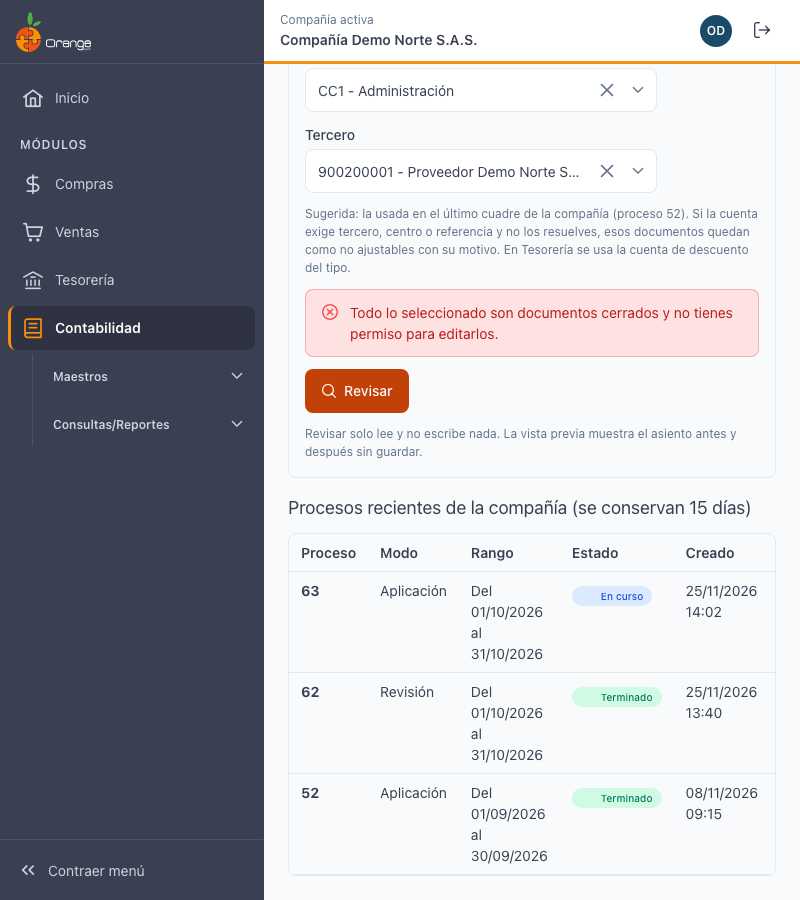
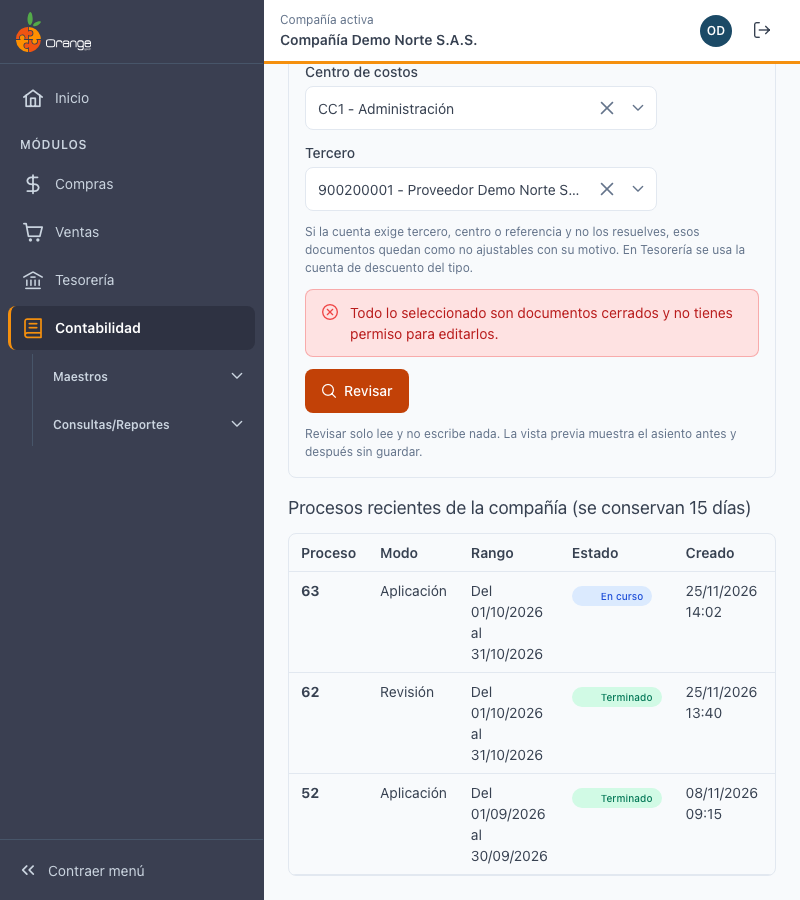
docs(contabilidad): corrige Cuadrar descuadres y Reconstruir tras la guardia de la 183 y el código de la 299/358
- La 183 ya impide reabrir períodos u opciones de un año con cierre anual: se explica el orden obligatorio (anular CEA y CEAN, luego reabrir).
- Anulación de CEA y CEAN: se hace por el medio disponible hoy (sistema anterior); dato a confirmar.
- Revertir todos o los documentos seleccionados; Abrir documento deshabilitado con motivo cuando no hay ruta.
- Capturas regeneradas desde las stories actuales (sin códigos técnicos ni sugerencia de cuenta).

Changed region(s): [[0.375, 0.0622, 0.9375, 0.3111], [0.75, 0.0933, 0.8125, 0.1244]]

diff --git a/v2026/contabilidad/cuadrar-descuadres.md b/v2026/contabilidad/cuadrar-descuadres.md
@@ -114,9 +114,8 @@ Los filtros por **Clasificación**, **Período**, **Origen** y **Tipo de movimie
 
 Cada fila tiene un enlace para ver el documento:
 
-- **Abrir origen**: disponible para los documentos de Tesorería y de Compras.
-- **Asientos**: abre el asiento del documento en Asientos contables.
-- **Abrir desde Asientos**: cuando no hay ruta directa al módulo de origen.
+- **Abrir documento**: disponible para los documentos de Tesorería y de Compras. Si el documento no tiene ruta al módulo de origen, el botón aparece deshabilitado y la pantalla indica el motivo.
+- **Asientos**: abre el asiento del documento en Asientos contables. Siempre está disponible.
 
 ---
 
@@ -178,7 +177,9 @@ Cada documento muestra débitos y créditos **antes → después** y la diferenc
 
 ### Revertir ajustes
 
-**Revertir ajustes** deshace un proceso de aplicación. Solo quita las líneas **AJUSTE CUADRE** de ese proceso, documento por documento. No toca otras líneas. Requiere el permiso de **Actualizar** y la función de escritura activa. Haga clic en **Revertir ajustes** y escriba el número de documentos, igual que al aplicar.
+**Revertir ajustes** deshace un proceso de aplicación. Solo quita las líneas **AJUSTE CUADRE** de ese proceso, documento por documento. No toca otras líneas. Requiere el permiso de **Actualizar** y la función de escritura activa.
+
+Puede revertir **todos** los documentos del proceso o solo **los documentos seleccionados**. Marque los documentos en la tabla y elija **Revertir seleccionados**; para todos, use **Revertir ajustes**. En ambos casos escriba el número de documentos, igual que al aplicar.
 
 ![Confirmar reversión](recursos/img/cuadrar-descuadres/13-confirmar-reversion.png)
 
@@ -192,7 +193,7 @@ En **Procesos recientes** aparecen los procesos de los últimos **15 días**, co
 
 Esta sección es la guía del contador. **Esta pantalla nunca abre ni cierra períodos ni años, ni modifica un período cerrado.** Usted hace cada paso en la pantalla que corresponda.
 
-**Mientras un año tenga cierre anual, no se deben reabrir sus períodos.** Primero anule el cierre anual del año y solo después reabra el período.
+**Mientras un año tenga cierre anual, la opción de períodos no permite reabrir sus períodos ni sus opciones.** Si lo intenta, la pantalla le pide **anular primero el cierre anual**. El orden es obligatorio: primero anule el cierre anual (CEA y CEAN) del año y solo después reabra el período.
 
 ![Solo períodos cerrados](recursos/img/cuadrar-descuadres/06-solo-periodos-cerrados.png)
 
@@ -210,12 +211,12 @@ El documento sale **Bloqueado** con el motivo **Período cerrado**. Siga estos p
 
 Si el año tiene **cierre anual** (documentos de cierre de diciembre y de enero), el documento sale **Bloqueado** con el motivo **Año con cierre anual**. Siga este orden:
 
-1. **Anule primero el cierre anual** del año: el documento de cierre del 31 de diciembre (CEA) y el de cierre del 1 de enero siguiente (CEAN). Se anulan con la anulación normal de documentos y el permiso de anular; si la pantalla de Asientos de su compañía no permite anularlos, hágalo donde lo hace hoy. Tenga en cuenta que anularlos **cambia los saldos de apertura del año siguiente**.
+1. **Anule primero el cierre anual** del año: el documento de cierre del 31 de diciembre (CEA) y el de cierre del 1 de enero siguiente (CEAN). Hoy esa anulación se hace por el medio disponible actualmente para su compañía (el sistema anterior). Tenga en cuenta que anularlos **cambia los saldos de apertura del año siguiente**.
 2. Siga los pasos de **período cerrado** (reabrir el período, cuadrar, conciliar, cerrar opciones y período).
 3. **Recalcule los saldos** con **Recálculo de saldos (285)**, incluido el año siguiente.
 4. **Vuelva a generar el cierre anual** con **Cierre anual (306)**.
 
-> **Nota:** mientras el año tenga cierre anual, esta opción sigue bloqueando sus documentos aunque el período esté abierto. Hoy la opción de períodos todavía no impide reabrir un período de un año con cierre anual, así que respete este orden.
+> **Nota:** mientras el año tenga cierre anual, esta opción sigue bloqueando sus documentos aunque el período esté abierto. Si anula el cierre anual y luego reabre el período, el documento deja de salir como **Año con cierre anual**.
 
 Si la selección es solo de documentos bloqueados por el año, la pantalla no permite aplicar.
 

diff --git a/v2026/contabilidad/reconstruir.md b/v2026/contabilidad/reconstruir.md
@@ -108,6 +108,8 @@ Al terminar, la pantalla muestra:
 
 Un documento de un **período cerrado** se **omite para todos los usuarios**, sin excepciones. La pantalla lo cuenta y muestra la lista de períodos.
 
+![Aviso de períodos cerrados](recursos/img/reconstruir/06-solo-periodos-cerrados.png)
+
 Si necesita reconstruir esos documentos, siga esta guía:
 
 1. Abra el período en el menú **Seguridad**, opción **Períodos**.
